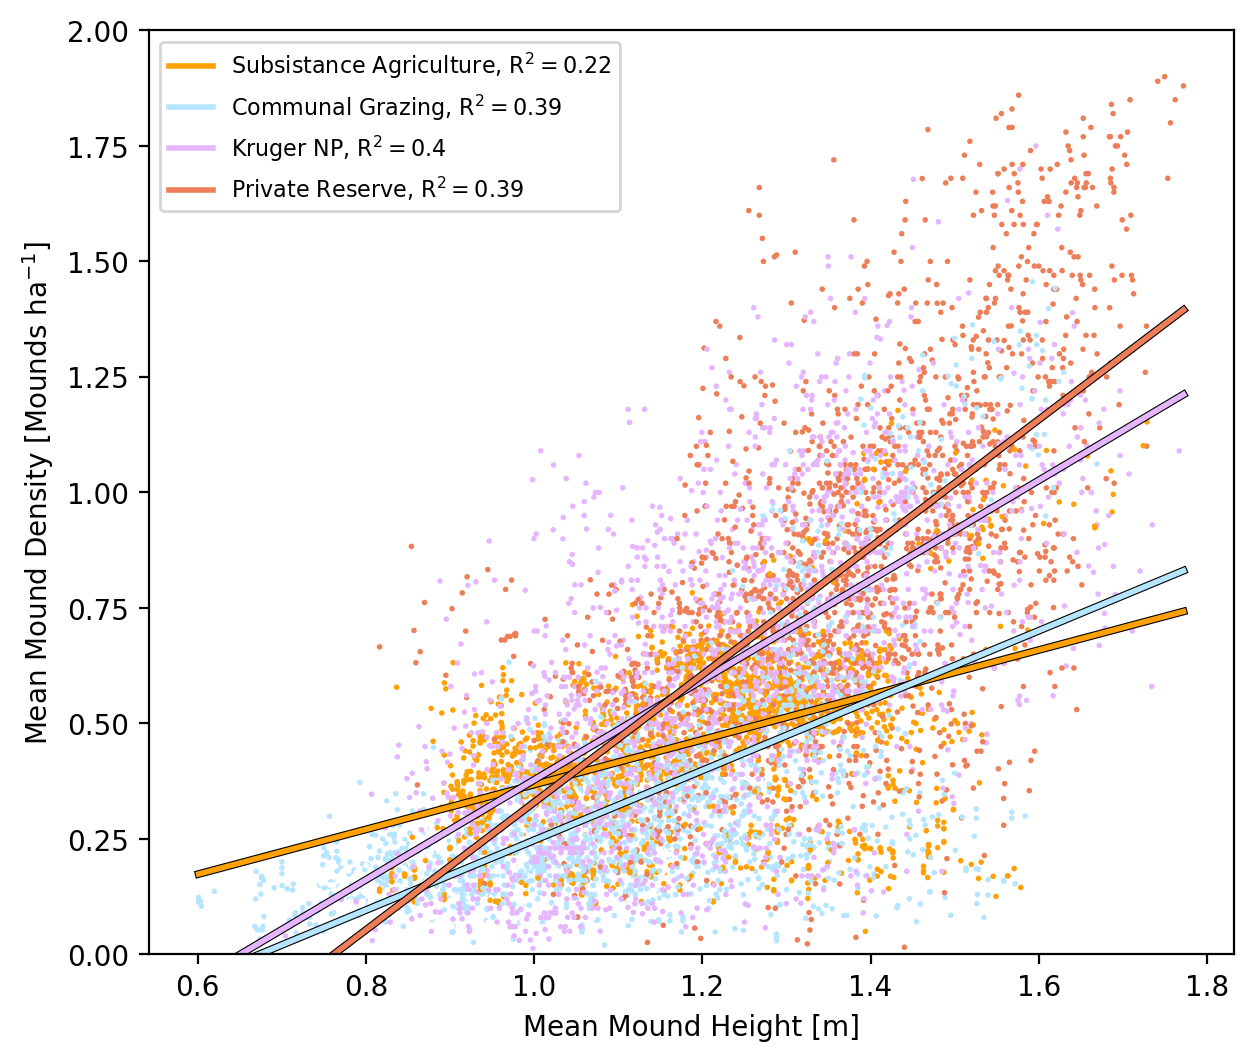
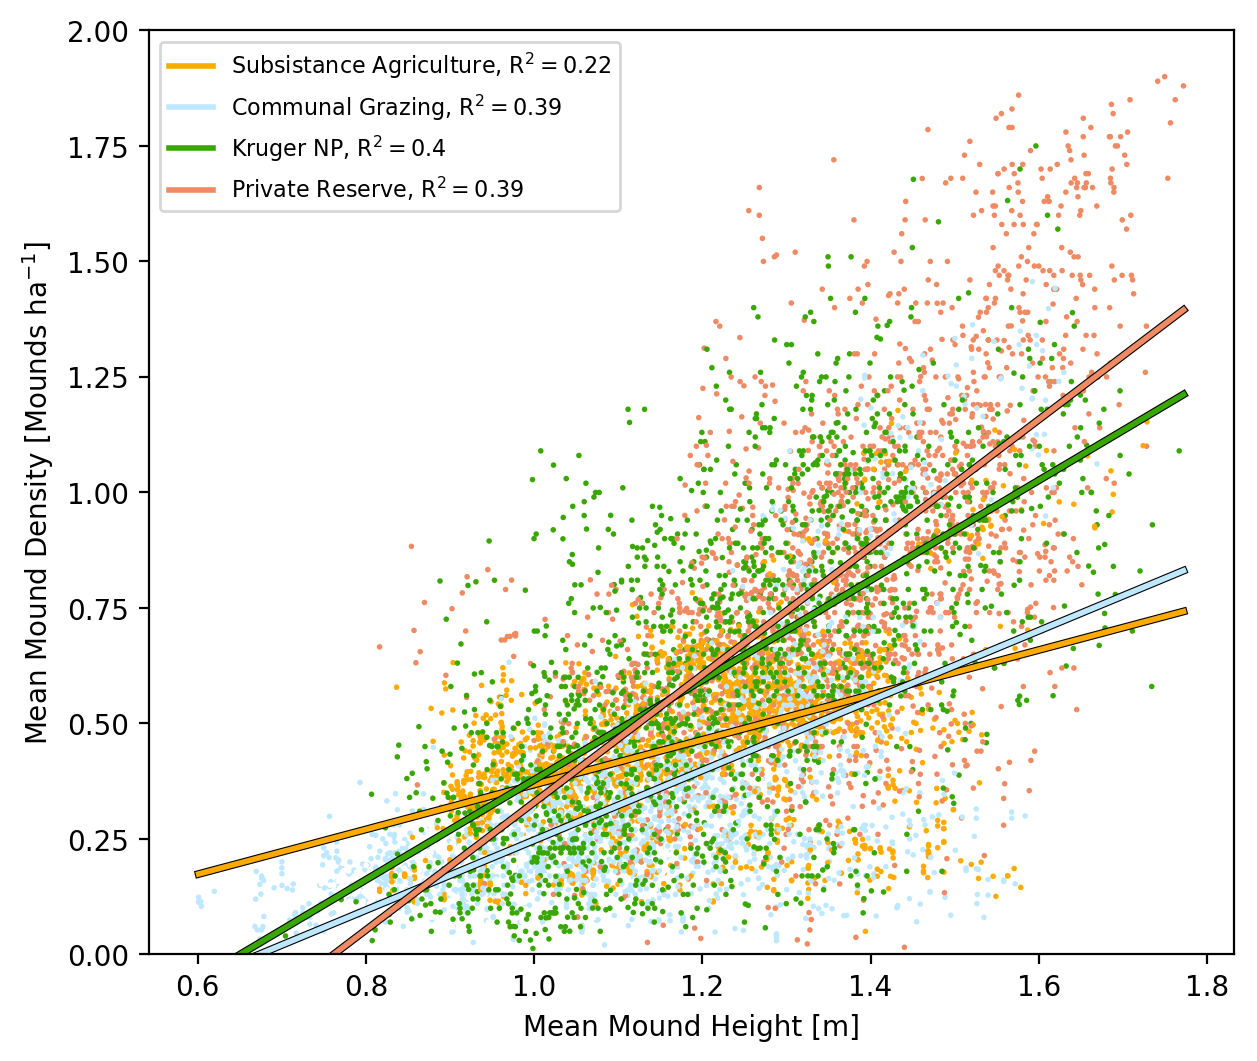
updated figure colors

diff --git a/main_text_plots.py b/main_text_plots.py
@@ -49,7 +49,7 @@ rem = np.array(bootstrap_df['mean_rem'])
 un_treat = np.unique(treatment)
 un_treat = un_treat[un_treat != 'nature_reserve']
 un_treat_label = ['Subsistance Agriculture','Communal Grazing', 'Kruger NP','Private Reserve']
-color_ref = [[255,160,5],[182,229,255],[229,182,255],[237,126,87]]
+color_ref = [[255,170,0],[190,232,255],[56,168,0],[239,138,98]]
 color_ref = [(np.array(x)/255.).tolist() for x in color_ref]
 
 ################# 3a

diff --git a/si_plots.py b/si_plots.py
@@ -72,7 +72,7 @@ def single_plot(subsample_size):
 
 fig = plt.figure(figsize=(10,16))
 
-treat_colors = [[255,160,5],[182,229,255],[229,182,255],[237,126,87]]
+treat_colors = [[255,170,0],[190,232,255],[56,168,0],[239,138,98]]
 treat_colors = [(np.array(x)/255.).tolist() for x in treat_colors]
 un_treat_label = ['Subsistance\nAgriculture','Communal\nGrazing', 'Kruger NP','Private\nReserve']
 ########### SI Figure 1
